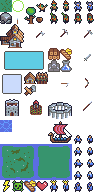
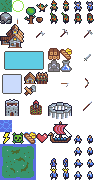
code refactoring, fix healing on buildings

diff --git a/src/js/main.js b/src/js/main.js
@@ -70,12 +70,12 @@ function gameInit() {
 	);
 
 	GLOBAL.spellMenu.push(
-		new Button_Spell(innerWidth - dx, innerHeight - 192, tile(122), 5, () => {
+		new Button_Spell(innerWidth - dx, innerHeight - 192, tile(90), 5, () => {
 			GLOBAL.mana -= 5;
 			GLOBAL.food += 10;
 			zzfx(...[.9,,588,,.03,.14,,3.9,,-1,650,.05,.04,,,,.08,.84,.3]);
 		}),
-		new Button_Spell(innerWidth - dx, innerHeight - (192 + dx), tile(121), 10, () => {
+		new Button_Spell(innerWidth - dx, innerHeight - (192 + dx), tile(89), 10, () => {
 			GLOBAL.mana -= 10;
 			for (let i = 0; i < GLOBAL.enemies.length; i++) {
 				GLOBAL.vfxMan.addParticles(GLOBAL.enemies[i].pos, GLOBAL.vfxMan.gasPlumes);
@@ -83,25 +83,25 @@ function gameInit() {
 			}
 			zzfx(...[.7,,530,.01,.14,.13,,.3,-10,,,,,,32,,.03,.3,.1,,346]);
 		}),
-		new Button_Spell(innerWidth - dx, innerHeight - (192 + dx * 2), tile(123), 10, () => {
+		new Button_Spell(innerWidth - dx, innerHeight - (192 + dx * 2), tile(91), 10, () => {
 			GLOBAL.mana -= 10;
 			for (let i = 0; i < GLOBAL.units.length; i++) {
 				const unit = GLOBAL.units[i];
 				if (unit.hitPoints < unit.maxHitPoints) {
-					GLOBAL.vfxMan.addParticles(GLOBAL.units[i].pos, GLOBAL.vfxMan.heartPlusses);
+					GLOBAL.vfxMan.addParticles(unit.pos, GLOBAL.vfxMan.heartPlusses);
 					unit.hitPoints++;
 				}
 			}
 			for (let i = 0; i < GLOBAL.buildings.length; i++) {
 				const unit = GLOBAL.buildings[i];
 				if (unit.hitPoints < unit.maxHitPoints) {
-					GLOBAL.vfxMan.addParticles(GLOBAL.units[i].pos, GLOBAL.vfxMan.heartPlusses);
+					GLOBAL.vfxMan.addParticles(unit.pos, GLOBAL.vfxMan.heartPlusses);
 					unit.hitPoints++;
 				}
 			}
 			zzfx(...[,,244,,.05,.32,,1.7,-2,,421,.09,.02,,,,,.8,.15]);
 		}),
-		new Button_Spell(innerWidth - dx, innerHeight - (192 + dx * 3), tile(120), 20, () => {
+		new Button_Spell(innerWidth - dx, innerHeight - (192 + dx * 3), tile(88), 20, () => {
 			GLOBAL.mana -= 20;
 			for (let i = 0; i < GLOBAL.enemies.length; i++) {
 				GLOBAL.vfxMan.addParticles(GLOBAL.enemies[i].pos, GLOBAL.vfxMan.sparks);

diff --git a/src/js/objects/Unit_Worker.js b/src/js/objects/Unit_Worker.js
@@ -18,47 +18,20 @@ class Unit_Worker extends PlayerUnit {
 
 		if (this.intention == 'chop') {
 			// axe
-			drawTile(
-				this.pos.add(vec2(0, -2/12)),
-				vec2(2),
-				tile(vec2(24), 24),
-				undefined,
-				(this.mirror ? 1 : -1) * this.actionFrame / (PI*12),
-				this.mirror
-			);
+			this.drawTool(tile(vec2(24), 24));
 		}
 		else if (this.intention == 'mine') {
-			// axe
-			drawTile(
-				this.pos.add(vec2(0, -2/12)),
-				vec2(2),
-				tile(vec2(48, 24), 24),
-				undefined,
-				(this.mirror ? 1 : -1) * this.actionFrame / (PI*12),
-				this.mirror
-			);
+			// pick
+			this.drawTool(tile(vec2(48, 24), 24));
+
 		}
 		else if (this.intention == 'build') {
-			// axe
-			drawTile(
-				this.pos.add(vec2(0, -2/12)),
-				vec2(2),
-				tile(vec2(72, 24), 24),
-				undefined,
-				(this.mirror ? 1 : -1) * this.actionFrame / (PI*12),
-				this.mirror
-			);
+			// hammer
+			this.drawTool(tile(vec2(72, 24), 24));
 		}
 		else if (this.intention == 'farm') {
 			// hoe
-			drawTile(
-				this.pos.add(vec2(0, -2/12)),
-				vec2(2),
-				tile(vec2(48, 72), 24),
-				undefined,
-				(this.mirror ? 1 : -1) * this.actionFrame / (PI*12),
-				this.mirror
-			);
+			this.drawTool(tile(vec2(48, 72), 24));
 		}
 
 	}

diff --git a/src/js/objects/Unit_Enemy.js b/src/js/objects/Unit_Enemy.js
@@ -130,26 +130,12 @@ class Unit_Enemy extends Unit {
 		// post render
 
 		if (this.weapon == 'axe') {
-			// axe
-			drawTile(
-				this.pos.add(vec2(0, -2/12)),
-				vec2(2),
-				tile(vec2(24), 24),
-				undefined,
-				(this.mirror ? 1 : -1) * this.actionFrame / (PI*12),
-				this.mirror
-			);
+			this.drawTool(tile(vec2(24), 24));
+			
 		}
-		else if (this.weapon == 'sword') {
-			// axe
-			drawTile(
-				this.pos.add(vec2(0, -2/12)),
-				vec2(2),
-				tile(vec2(72, 48), 24),
-				undefined,
-				(this.mirror ? 1 : -1) * this.actionFrame / (PI*12),
-				this.mirror
-			);
+		else {
+			// sword
+			this.drawTool(tile(vec2(72, 48), 24));
 		}
 
 	}

diff --git a/src/js/objects/Unit.js b/src/js/objects/Unit.js
@@ -81,4 +81,17 @@ class Unit extends EngineObject {
 
 		GLOBAL.drawHealthBar(this.pos.subtract(vec2(0, 8/12)), this.hitPoints, this.maxHitPoints);
 	}
+
+	drawTool(tileInfo) {
+
+		drawTile(
+			this.pos.add(vec2(0, -2/12)),
+			vec2(2),
+			tileInfo,
+			undefined,
+			(this.mirror ? 1 : -1) * this.actionFrame / (PI*12),
+			this.mirror
+		);
+	}
+
 }

diff --git a/src/js/ui/MiniMap.js b/src/js/ui/MiniMap.js
@@ -24,8 +24,9 @@ GLOBAL.miniMap = {
 		drawTile(
 			uiPos,
 			vec2(3),
-			tile(vec2(36, 144), vec2(36, 36))
+			tile(vec2(0, 144), vec2(36, 36))
 		);
+		drawRect(uiPos, vec2(28 / 12), new Color(55 / 255, 148 / 255, 110 / 255));
 
 		let color = new Color(75 / 255, 105 / 255, 47 / 255);
 		GLOBAL.miniMap.drawObjects(uiPos, GLOBAL.trees, color);

diff --git a/src/js/DEFS.js b/src/js/DEFS.js
@@ -99,14 +99,14 @@ const DEFS = {
 		{
 			number: 'twelfth',
 			name: 'Eben Fadlan',
-			heroTile: 126,
+			heroTile: 108,
 			from: 'south',
 			enemies: [18, 3, 17, 4, 19, 4]
 		},
 		{
 			number: 'thirteenth',
 			name: 'Beowulf the king',
-			heroTile: 124,
+			heroTile: 116,
 			from: 'southwest',
 			enemies: [3, 3, 4, 4, 5, 4]
 		},
